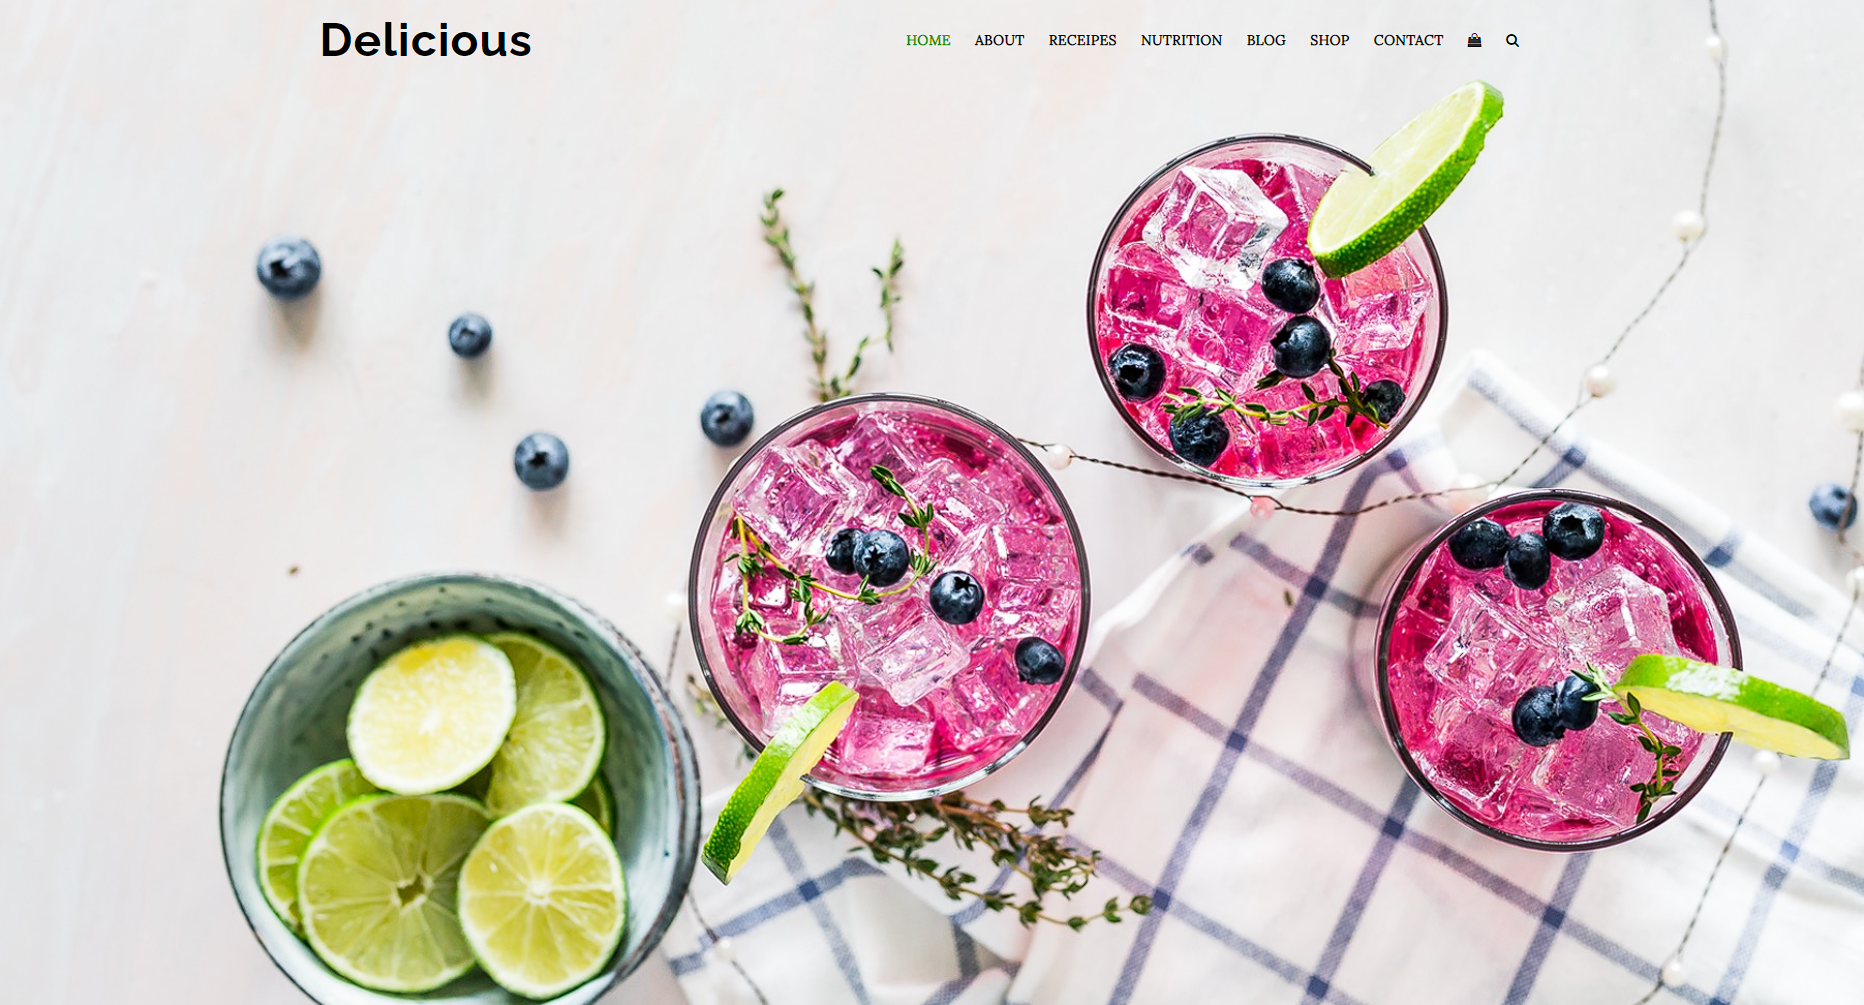
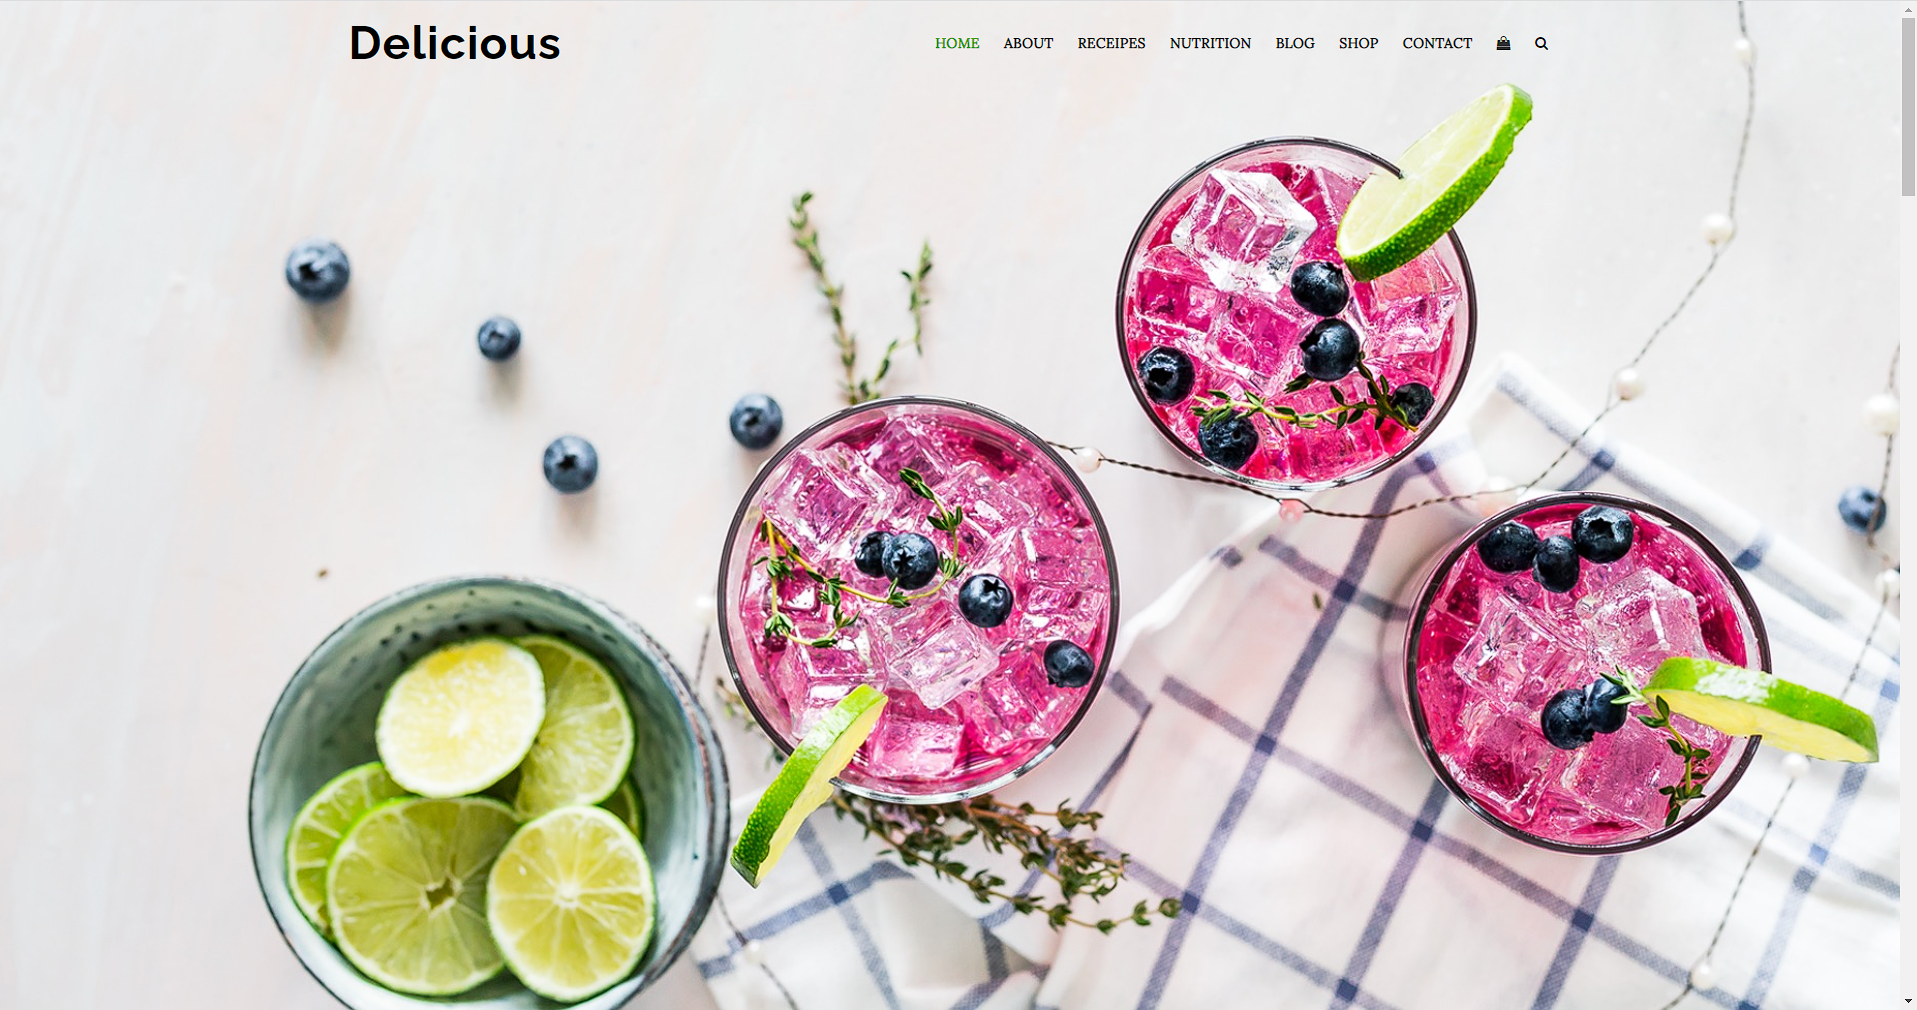
added new projects, changed style of modals

diff --git a/index.html b/index.html
@@ -59,8 +59,8 @@
                     <h1>i'm <span class="autoType"></span></h1>
 
                     <div class="btns">
-                        <button class="outer-shadow hover-in-shadow">cv</button>
-                        <a href="#contactMe"><button class="outer-shadow hover-in-shadow">contact</button></a>
+                        <!-- <button class="outer-shadow hover-in-shadow">cv</button> -->
+                        <a href="#contactMe" ><button class="outer-shadow hover-in-shadow">contact</button></a>
                     </div>
                 </div>
             </div>
@@ -119,58 +119,82 @@
 
         <section id='projects' class="projects">
             <div class="wrapper">
-                <h2>project<span class="pink">s</span></h2>
+                <h2><span class="pink">my</span>projects</h2>
 
                 <ul>
                     <li class="outer-shadow pject hidden">
+                        <div class="container"><img src="./assets/not-so-trivial-pursit.png" alt="trivia game app " data-modal="modal-four"></div>
+                        <!-- <p class="view-more">view more</p> -->
+                        <h4>not-so-trivial-pursuit</h4>
+
+                        <p> <span class="pink">React</span> | <span class="pink">Firebase</span> | <span class="pink">Javascript</span> | <span class="pink">CSS/SASS</span> | <span class="pink">HTML</span></p>
+
+
+                        <div class="live-links">
+                            <a href="https://not-so-trivial-pursuit.netlify.app/" target="_blank" class="outer-shadow hover-in-shadow">LIVE</a>
+
+                            <a href="https://github.com/not-so-trivial-pursuit/project04" target="_blank" class="outer-shadow hover-in-shadow">GITHUB</a>
+                        </div>
+
+                    </li>
+
+                    <li class="outer-shadow pject hidden">
+                        <div class="container"><img src="./assets/recipeGenerator.png" alt="an app that generates random recipes " data-modal="modal-three"></div>
+                        <!-- <p class="view-more">view more</p> -->
+                        <h4>recipe generator</h4>
+
+                        <p> <span class="pink">React</span> | <span class="pink">Javascript</span> | <span class="pink">CSS</span> | <span class="pink">HTML</span></p>
+
+
+                        <div class="live-links">
+                            <a href="https://dhna-project-three.netlify.app/" target="_blank" class="outer-shadow hover-in-shadow">LIVE</a>
+
+                            <a href="https://github.com/daeheumna/projectThree" target="_blank" class="outer-shadow hover-in-shadow">GITHUB</a>
+                        </div>
+
+                    </li>
+
+                    <li class="outer-shadow pject hidden">
                         <div class="container"><img src="./assets/jobHunt.jpeg.png" alt="job application app" data-modal="modal-one"></div>
-                        <p class="view-more">view more</p>
+                        <!-- <p class="view-more">view more</p> -->
                         <h4>jobhunt</h4>
-                    </li>
-                    <li class="outer-shadow pject hidden">
-                        <div class="container"><img src="./assets/delish.jpeg.png" alt="website design for a restaurant called delicious" data-modal="modal-two"></div>
-                        <p class="view-more">view more</p>
-                        <h4>delicious</h4>
-                    </li>
-                    <li class="outer-shadow pject hidden">
-                        <div class="container"><img src="./assets/arora.jpeg.png" alt="website design for a jewelry store called arora" data-modal="modal-three"></div>
-                        <p class="view-more">view more</p>
-                        <h4>arora</h4>
-                    </li>
-                </ul>
-
-                <div class="modal" id="modal-one">
-                    <div class="modal-bg modal-exit"></div>
-                    <div class="modal-container modal-container-one outer-shadow">
-                        <p>JobHunt is an online app that enables individuals to stay accountable when job searching. JobHunt was built using HTML5, CSS/SASS, Javascript, and Firebase. This project was built as part of a paired-programming assignment with <em>Roberto Jan</em>.</p>
-
+                        <p><span class="pink">Javascript</span> | <span class="pink">Firebase</span> | <span class="pink">CSS</span> | <span class="pink">HTML</span></p>
+                        
                         <div class="live-links">
                             <a href="https://denny-roberto-project2.netlify.app/" target="_blank" class="outer-shadow hover-in-shadow">LIVE</a>
 
                             <a href="https://github.com/RobertoJan/JobHunt-project-2" target="_blank" class="outer-shadow hover-in-shadow">GITHUB</a>
                         </div>
+                    </li>
+                    <li class="outer-shadow pject hidden">
+                        <div class="container"><img src="./assets/delish.jpeg.png" alt="website design for a restaurant called delicious" data-modal="modal-two"></div>
+                        <!-- <p class="view-more">view more</p> -->
+                        <h4>delicious</h4>
 
-                        <button class="modal-close modal-exit"><i class="fa-brands fa-x"></i></button>
-                    </div>
-                    <div class="modal-container outer-shadow">
-                        <img src="./assets/denny-roberto-project2.netlify.app_.png" alt="full-sized image of jobhunt project" class="src">
-                    </div>
-                  </div>
-
-                  <div class="modal" id="modal-two">
-                    <div class="modal-bg modal-exit"></div>
-                    <div class="modal-container modal-container-one outer-shadow">
-                        <p>Delicious is a responsive, multipage website built using HTML5, CSS/SASS, and Javascript</p>
+                        <p><span class="pink">CSS/SASS</span> | <span class="pink">HTML</span></p>
 
                         <div class="live-links">
                             <a href="https://devprojectonedhna.netlify.app/" target="_blank" class="outer-shadow hover-in-shadow">LIVE</a>
 
                             <a href="https://github.com/daeheumna/projectOne" target="_blank" class="outer-shadow hover-in-shadow">GITHUB</a>
                         </div>
+                    </li>
 
-                        <button class="modal-close modal-exit"><i class="fa-brands fa-x"></i></button>
-                    </div>
+                    
+                </ul>
+
+                <div class="modal" id="modal-one">
+                    <div class="modal-bg modal-exit"></div>
                     <div class="modal-container outer-shadow">
+                        <button class="modal-close modal-exit"><i class="fa-brands fa-x"></i></button>
+                        <img src="./assets/denny-roberto-project2.netlify.app_.png" alt="full-sized image of jobhunt project" class="src">
+                    </div>
+                  </div>
+
+                  <div class="modal" id="modal-two">
+                    <div class="modal-bg modal-exit"></div>
+                    <div class="modal-container outer-shadow">
+                        <button class="modal-close modal-exit"><i class="fa-brands fa-x"></i></button>
                         <img src="./assets/devprojectonedhna.netlify.app_.png" alt="full-sized image of delicious project" class="src">
                       
                     </div>
@@ -178,19 +202,18 @@
 
                   <div class="modal" id="modal-three">
                     <div class="modal-bg modal-exit"></div>
-                    <div class="modal-container modal-container-one outer-shadow">
-                        <p>A simple responsive website built using HTML5 & CSS</p>
-
-                        <div class="live-links">
-                            <a href="https://animated-churros-d5907d.netlify.app/" target="_blank" class="outer-shadow hover-in-shadow">LIVE</a>
-
-                            <a href="https://github.com/daeheumna/assignmentOne-DNa" target="_blank" class="outer-shadow hover-in-shadow">GITHUB</a>
-                        </div>
-
-                        <button class="modal-close modal-exit"><i class="fa-brands fa-x"></i></button>
-                    </div>
                     <div class="modal-container outer-shadow">
-                        <img src="./assets/arora.netlify.app_.png" alt="full-sized image of arora project" class="src">
+                        <button class="modal-close modal-exit"><i class="fa-brands fa-x"></i></button>
+                        <img src="./assets/dhna-project-three.netlify.app_advancedSearch (2).png" alt="full-sized image recipeGenerator project" class="src">
+                      
+                    </div>
+                  </div>
+
+                  <div class="modal" id="modal-four">
+                    <div class="modal-bg modal-exit"></div>
+                    <div class="modal-container outer-shadow">
+                        <button class="modal-close modal-exit"><i class="fa-brands fa-x"></i></button>
+                        <img src="./assets/not-so-trivial-pursuit.netlify.app_individualSavedGame_-NSkY88b3YLxO76V9rPF.png" alt="full-sized image of trivia game app project" class="src">
                       
                     </div>
                   </div>
@@ -207,7 +230,7 @@
                 </div>
 
                 <form action="https://formspree.io/f/xvonbgke"
-                method="POST" method="post" name="contactForm">
+                method="POST" name="contactForm">
 
                     <div class="formText">
                         <div class="visitorInfo">

diff --git a/styles/style.css b/styles/style.css
@@ -327,13 +327,13 @@ header .navBar {
   -webkit-box-pack: justify;
       -ms-flex-pack: justify;
           justify-content: space-between;
-  padding-top: 10px;
+  padding-top: 15px;
   color: #3d535f;
   position: fixed;
   background-color: #FFF;
   z-index: 600;
+  max-width: 1450px;
   margin-left: -10px;
-  padding-left: 10px;
   padding-bottom: 10px;
 }
 header .hamburger-btn {
@@ -671,7 +671,7 @@ main .aboutMeContainer .aboutMeText p {
   padding-bottom: 20px;
 }
 main .skills h2 {
-  padding: 50px 0 10px 0;
+  padding: 120px 0 10px 0;
   font-size: 1.2rem;
   -webkit-box-pack: center;
       -ms-flex-pack: center;
@@ -715,19 +715,25 @@ main .skills ul img {
   border-radius: 50%;
 }
 main .projects {
-  margin: 100px 0 50px 0;
+  margin: 100px 0 80px 0;
 }
 main .projects ul {
   display: -webkit-box;
   display: -ms-flexbox;
   display: flex;
-  gap: 30px;
+  -ms-flex-wrap: wrap;
+      flex-wrap: wrap;
+  -webkit-box-pack: center;
+      -ms-flex-pack: center;
+          justify-content: center;
   -webkit-box-align: center;
       -ms-flex-align: center;
           align-items: center;
+  gap: 30px;
+  align-items: center;
 }
 main .projects ul li {
-  width: 65%;
+  width: 45%;
   padding: 20px;
   display: -webkit-box;
   display: -ms-flexbox;
@@ -747,21 +753,19 @@ main .projects ul li img {
   z-index: 500;
 }
 main .projects ul li p {
-  position: absolute;
-  left: 7%;
-  bottom: 25%;
   font-size: 0.7rem;
-  color: #e96269;
   font-weight: 700;
 }
 main .projects ul .container {
   width: 100%;
+  padding-top: 0;
 }
 main .projects ul img {
   max-height: 400px;
   -webkit-transition: all 0.3s ease;
   transition: all 0.3s ease;
   cursor: pointer;
+  border-radius: 5px;
 }
 main .projects ul img:hover {
   -webkit-transform: translateY(-45px);
@@ -795,7 +799,6 @@ main .projects .live-links {
       -ms-flex-pack: center;
           justify-content: center;
   gap: 30px;
-  padding-top: 20px;
 }
 main .projects .fa-brands {
   color: #e96269;

diff --git a/styles/sass/partials/_main.scss b/styles/sass/partials/_main.scss
@@ -74,7 +74,7 @@ main {
     .skills{
 
         h2 {
-            padding: 50px 0 10px 0;
+            padding: 120px 0 10px 0;
             font-size: 1.2rem;
             justify-content: center;
         }
@@ -112,16 +112,19 @@ main {
 
 
     .projects {
-        margin: 100px 0 50px 0;
+        margin: 100px 0 80px 0;
     
         ul {
             display: flex;
+            flex-wrap: wrap;
+            justify-content: center;
+            align-items: center;
             // flex-direction: column;
             gap: 30px;
             align-items: center;
             
             li {
-                width: 65%;
+                width: 45%;
                 padding: 20px;
                 display: flex;
                 flex-direction: column;
@@ -136,11 +139,11 @@ main {
                 }
                 
                 p{
-                    position: absolute;
-                    left: 7%;
-                    bottom: 25%;
+                    // position: absolute;
+                    // left: 7%;
+                    // bottom: 25%;
                     font-size: 0.7rem;
-                    color: $primaryPink;
+                    // color: $primaryPink;
                     font-weight: 700;
                 }
                 
@@ -148,12 +151,14 @@ main {
 
             .container {
                 width: 100%;
+                padding-top: 0;
             }
 
             img {
                 max-height: 400px;
                 transition: all 0.3s ease;
                 cursor: pointer;
+                border-radius: 5px;
             }
 
             img:hover {
@@ -188,7 +193,7 @@ main {
             display: flex;
             justify-content: center;
             gap: 30px;
-            padding-top: 20px;
+            // padding-top: 20px;
 
         }
 

diff --git a/styles/sass/partials/_header.scss b/styles/sass/partials/_header.scss
@@ -7,14 +7,13 @@ header {
     .navBar {
         display: flex;
         justify-content: space-between;
-        padding-top: 10px;
+        padding-top: 15px;
         color: #3d535f;
         position: fixed;
         background-color: $primaryWhite;
         z-index:600;
-
+        max-width:1450px;
         margin-left: -10px;
-        padding-left: 10px;
         padding-bottom: 10px;
     }
 
@@ -234,7 +233,6 @@ header {
             padding: 8px 15px;
             margin: 10px 5px;
             letter-spacing: 5px;
-            // text-transform: uppercase;
             border-radius: 20px;
         }
         

diff --git a/script.js b/script.js
@@ -32,7 +32,7 @@ document.addEventListener('click', (event) => {
 
 
 var typingEffect = new Typed('.autoType', {
-    strings : ['denny', 'coder', 'web-dev'],
+    strings : ['denny', ' a coder', ' a web-dev', 'designer'],
     typeSpeed: 110,
     backSpeed : 80,
     backDelay : 1500,
@@ -75,7 +75,6 @@ modals.forEach(function (trigger) {
 
 const observer = new IntersectionObserver((enteries) => {
     enteries.forEach((entry) => {
-        console.log(entry)
         if (entry.isIntersecting) {
             entry.target.classList.add('show');
         } 
